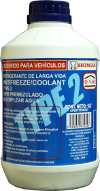
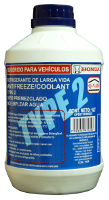
16 de septiembre de 2016
modificacion del estilo de las imagenes de la linea automotriz, el litro
de honda se veia muy grande en relacion a los demas

diff --git a/css/mycss.css b/css/mycss.css
@@ -302,6 +302,11 @@ font-style: italic;
 
 }
 
+.img-automotriz{
+	max-width: 150px;
+	
+}
+
 .img-automotriz:hover{
 	cursor: zoom-in;
 }

diff --git a/productos/linea-automotriz.php b/productos/linea-automotriz.php
@@ -26,7 +26,7 @@ $producto->autoClasses();
                     <h1 class="font-OSCB color-red text-center"><?php echo explode(" ",$item['nombre'])[0]; ?><span class="font-OSCI  color-black"><?php echo explode(" ",$item['nombre'])[1]; ?></span>
                     </h1>
                     <center>
-                        <img data-toggle="modal" data-target="#myModalImg" class="img-responsive img-automotriz"  onclick="zoomImage(this);" width="150" src="<?php echo $item['imagen']; ?>" alt="<?php echo $item['imagen']; ?>">
+                        <img data-toggle="modal" data-target="#myModalImg" class="img-automotriz"  onclick="zoomImage(this);" width="" src="<?php echo $item['imagen']; ?>" alt="<?php echo $item['imagen']; ?>">
                         <p class="">
                           <?php echo utf8_encode($item['descripcion_corta']); ?>
                         </p>
